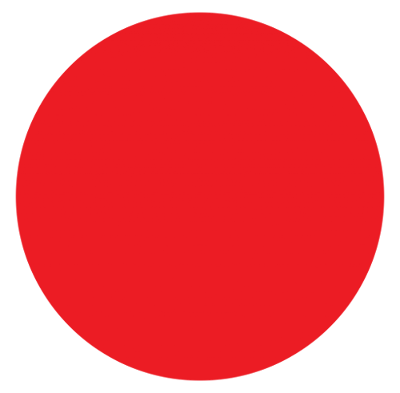
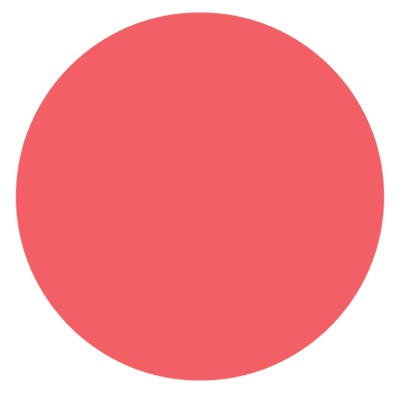
Enlarged touchpad and made it 70% opaque

diff --git a/core/src/com/remnants/game/UI/PlayerHUD.java b/core/src/com/remnants/game/UI/PlayerHUD.java
@@ -142,11 +142,11 @@ public class PlayerHUD implements Screen, AudioSubject, ProfileObserver,Componen
         _battleUI.setVisible(false);
 
         _padUI = new dPadUI();
-        _padUI.getGroup().setPosition(_stage.getWidth() / 10, _stage.getHeight() / 6);
-        _padUI.getStyle().background.setMinHeight(_stage.getHeight() / 6);
-        _padUI.getStyle().background.setMinWidth(_stage.getHeight() / 6);
-        _padUI.getStyle().knob.setMinHeight(_stage.getHeight() / 7);
-        _padUI.getStyle().knob.setMinWidth(_stage.getHeight() / 7);
+        _padUI.getGroup().setPosition(_stage.getWidth() / 9, _stage.getHeight() / 5);
+        _padUI.getStyle().background.setMinHeight(_stage.getHeight() / 4);
+        _padUI.getStyle().background.setMinWidth(_stage.getHeight() / 4);
+        _padUI.getStyle().knob.setMinHeight(_stage.getHeight() / 5);
+        _padUI.getStyle().knob.setMinWidth(_stage.getHeight() / 5);
 
         //_stage.addActor(_battleUI);
         //_stage.addActor(_questUI);
